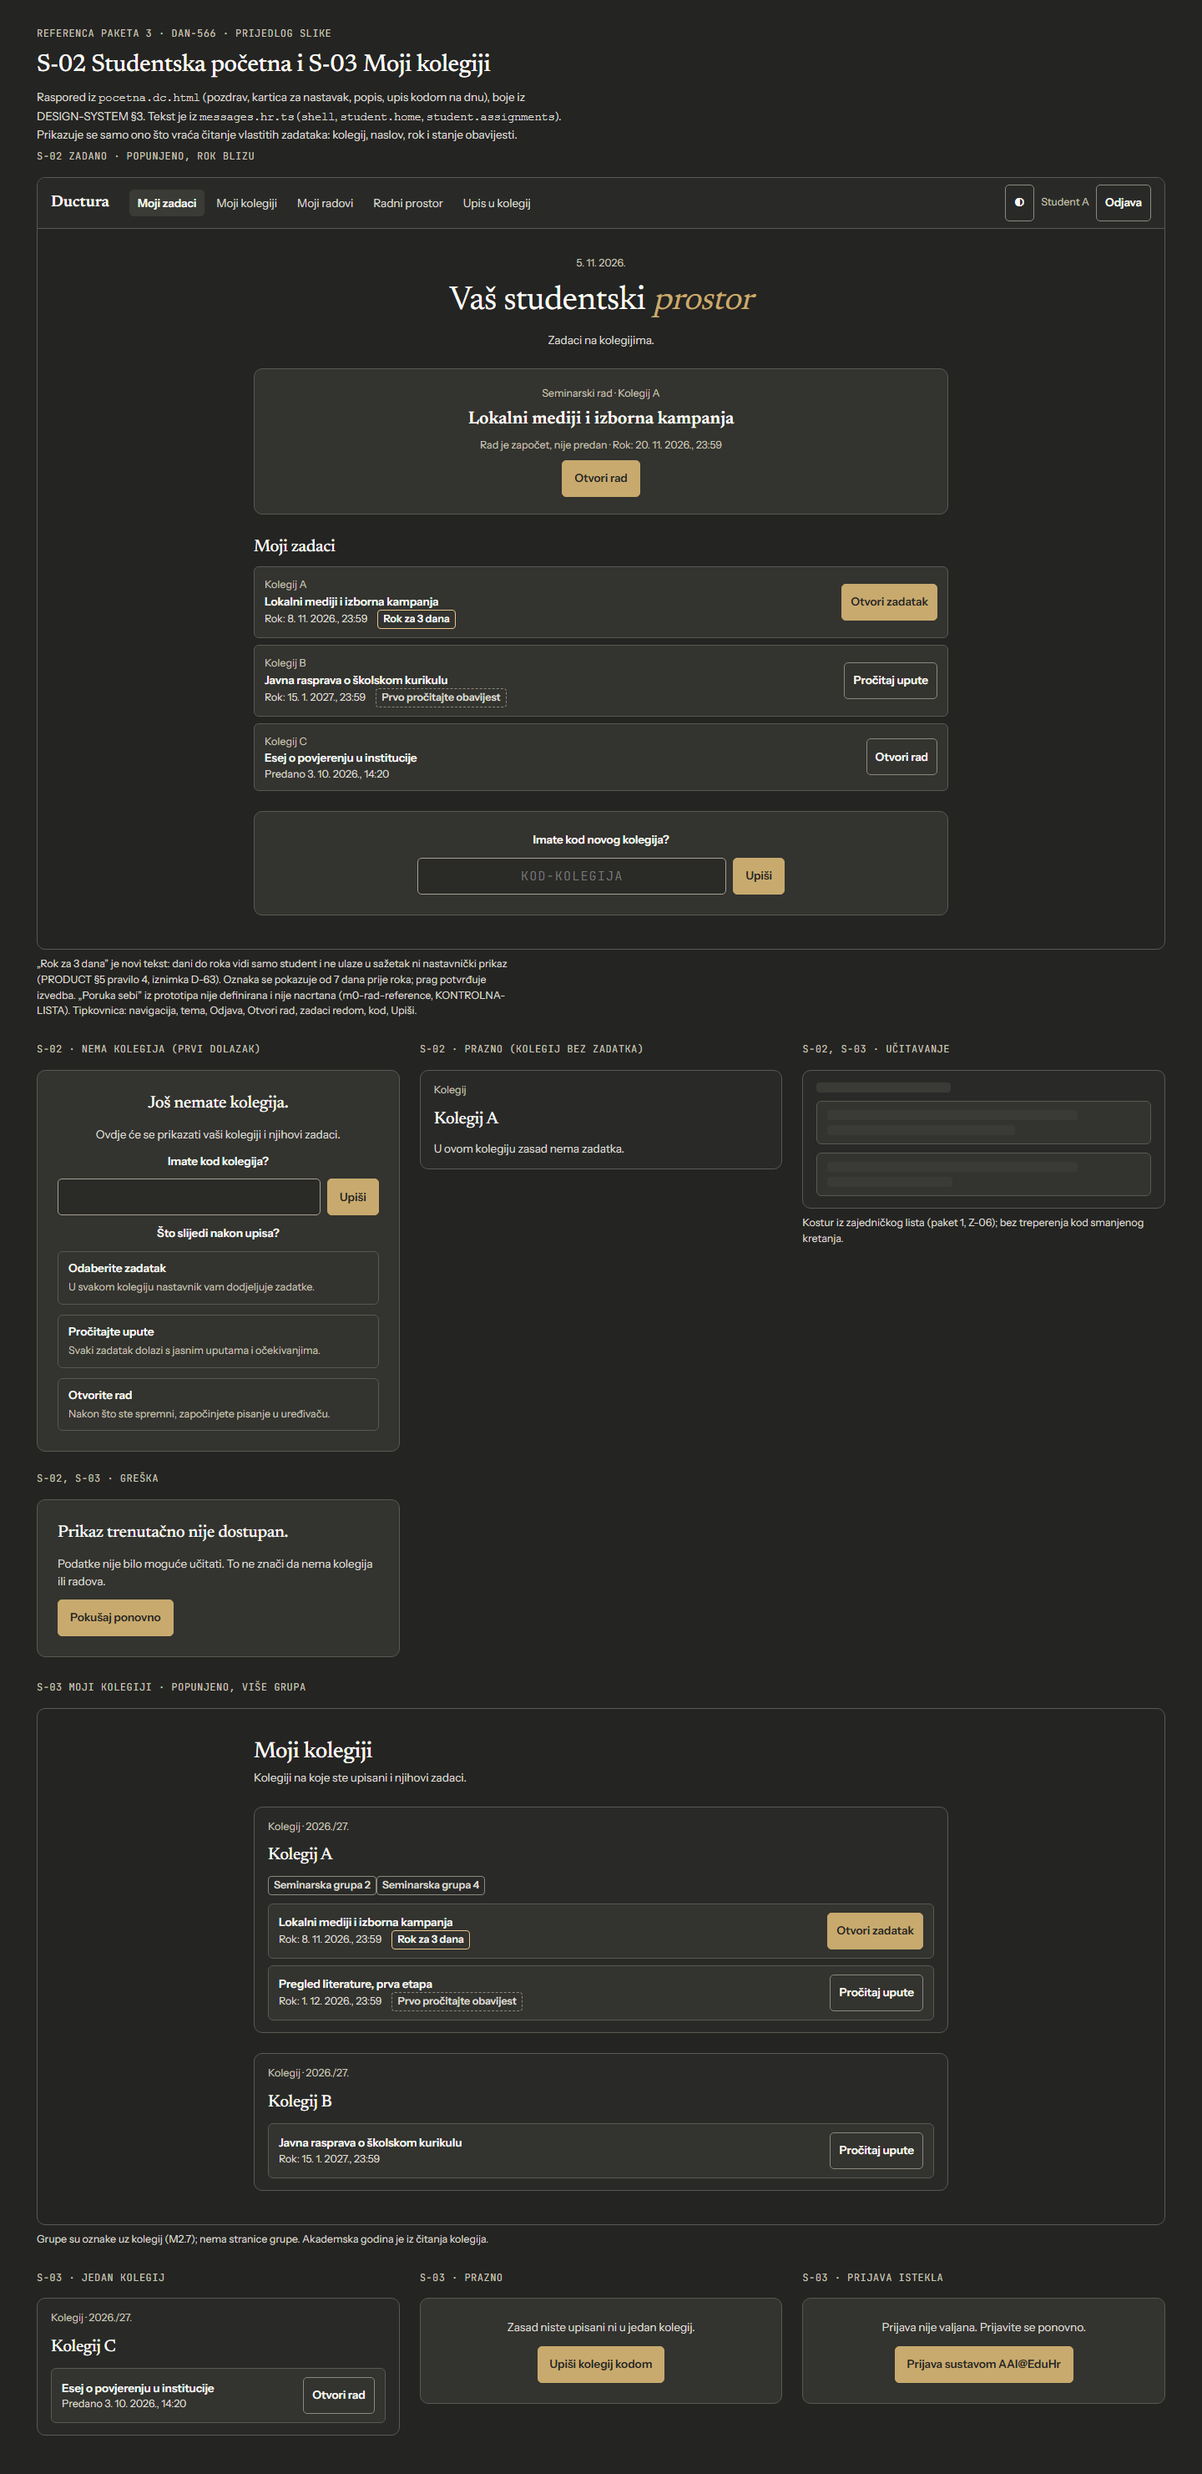
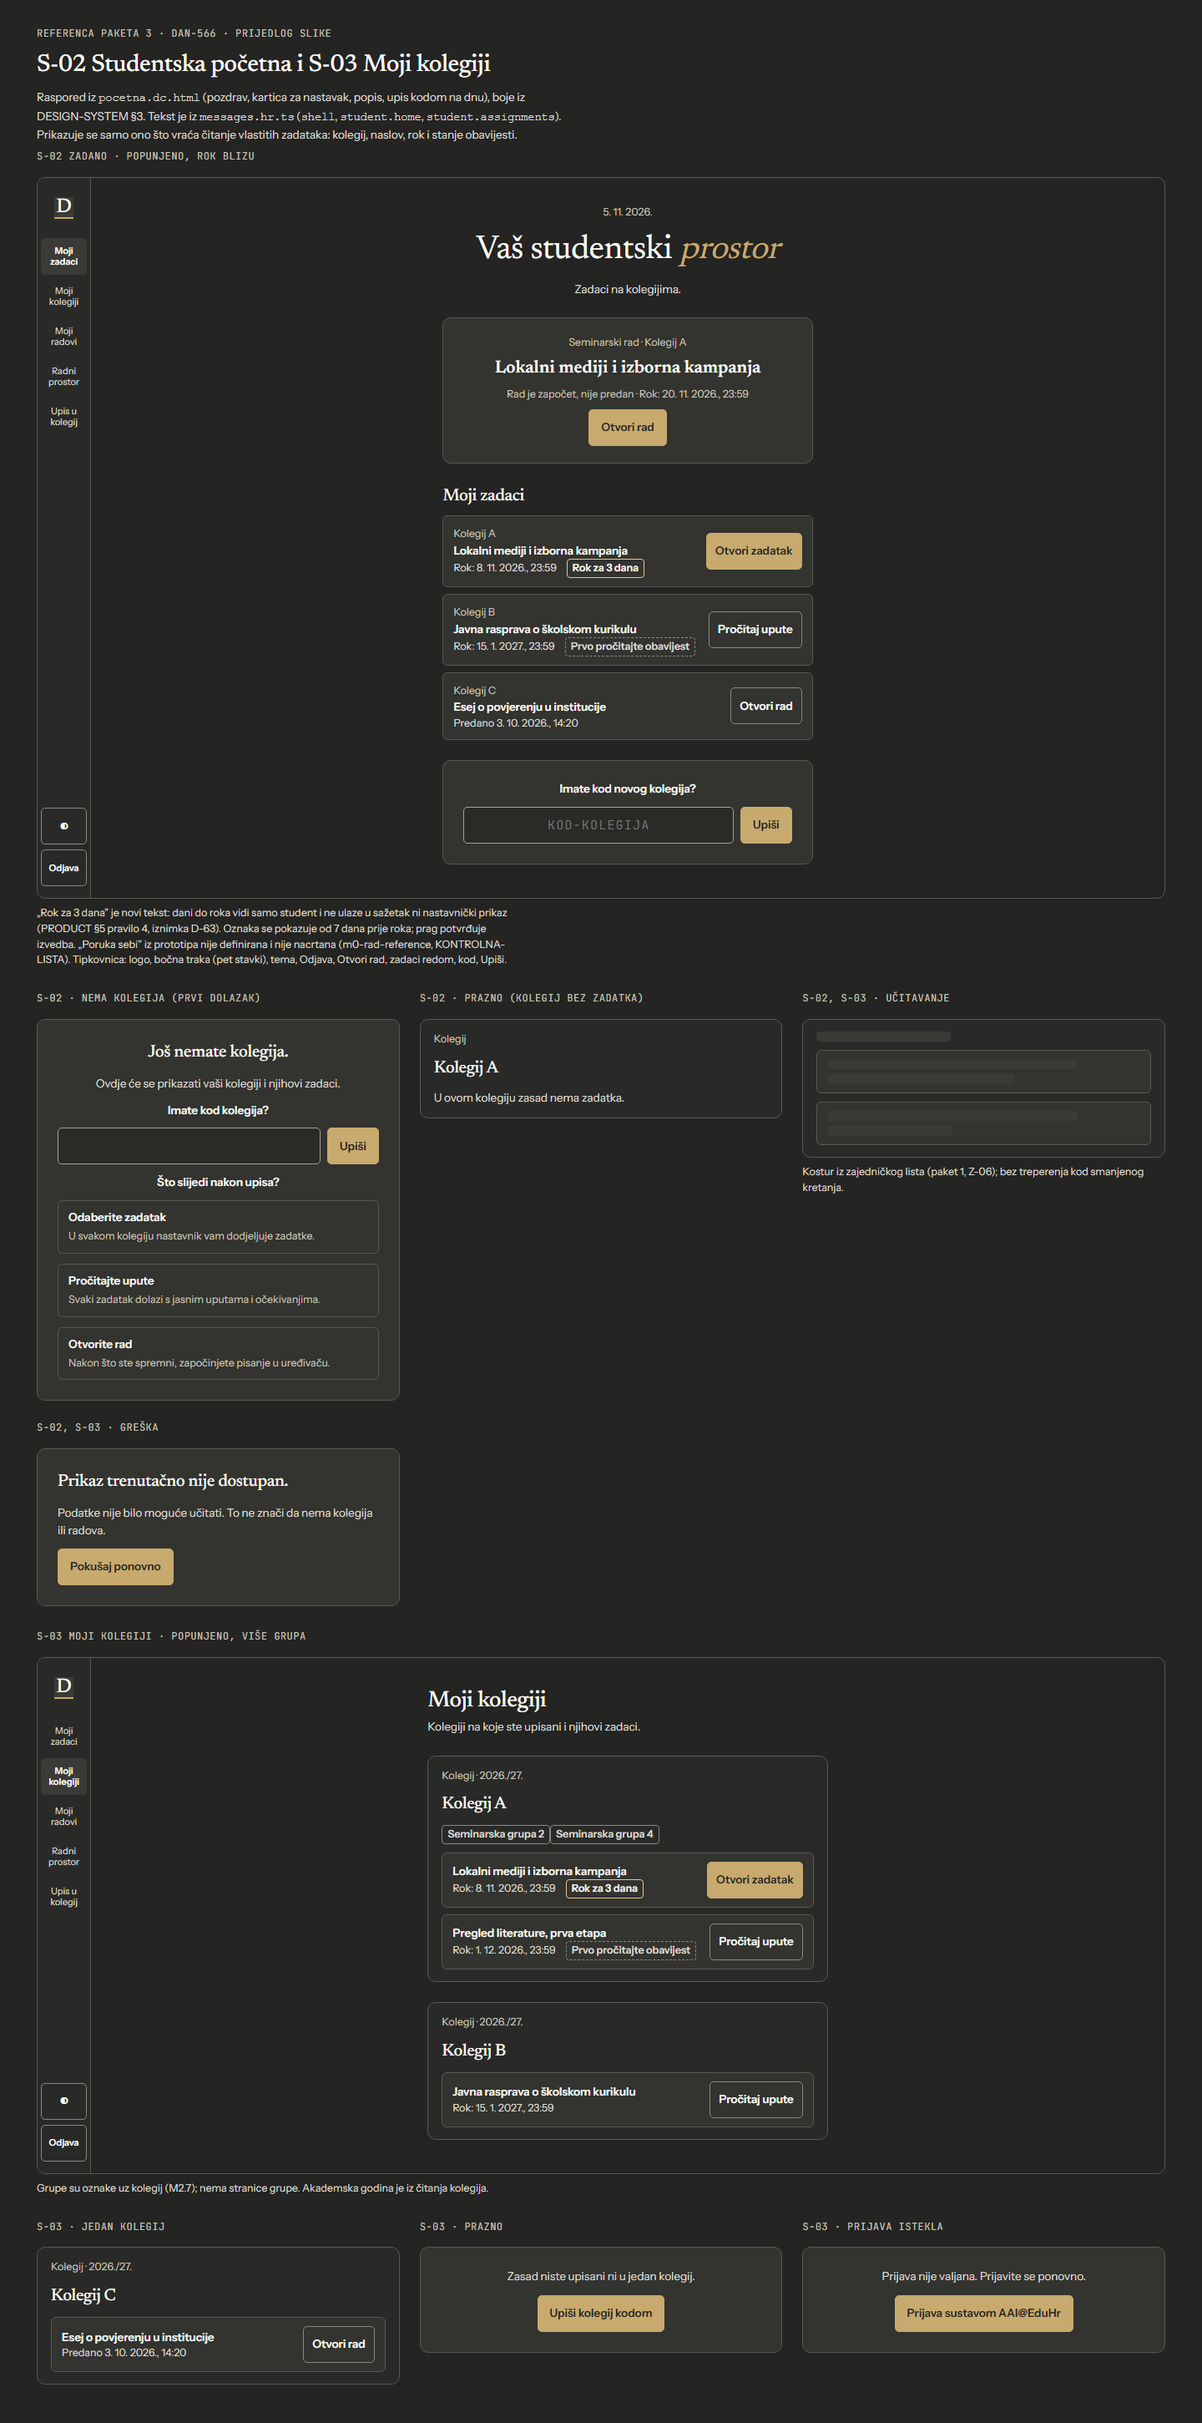
docs: sidebar shell, labelled code field and no-task enrolment state (DAN-566)
Review c.6650499525: S-02 and S-03 use the 64 px sidebar from D-202
point 1 instead of a horizontal bar; every S-04 code field has a label and
aria-describedby to its hint or error; the course-without-task state no
longer announces opening the task notice. Screenshots and SHA256SUMS are
refreshed.

Claude-Session: https://claude.ai/code/session_01N1HowT4JEmWPus261RPqtk

diff --git a/docs/design/ductura/m2-student-reference/upis-obavijest.html b/docs/design/ductura/m2-student-reference/upis-obavijest.html
@@ -17,9 +17,9 @@
     <section class="variant" aria-labelledby="u"><div class="ref-tag" id="u">S-04 zadano · prazno</div>
       <div class="app"><div class="main narrow">
         <section class="card center" aria-labelledby="u1"><h1 id="u1">Upiši kolegij</h1>
-          <label class="field" style="width:100%"><span class="meta">Kod kolegija</span>
-            <span class="code-row"><input class="input code" placeholder="KOD-KOLEGIJA"><button class="btn" type="button">Upiši</button></span></label>
-          <span class="meta">Kod Vam daje nastavnik. Razmaci, crtice i velika ili mala slova nisu bitni.</span></section>
+          <div class="field" style="width:100%"><label class="meta" for="k0">Kod kolegija</label>
+            <span class="code-row"><input class="input code" id="k0" placeholder="KOD-KOLEGIJA" aria-describedby="k0h"><button class="btn" type="button">Upiši</button></span></div>
+          <span class="meta" id="k0h">Kod Vam daje nastavnik. Razmaci, crtice i velika ili mala slova nisu bitni.</span></section>
       </div></div>
       <p class="ref-note">Tipkovnica: polje, Upiši; Enter u polju šalje. Greška se veže uz polje (aria-describedby) i čita se kao alert.</p></section>
     <section class="variant" aria-labelledby="o"><div class="ref-tag" id="o">S-05 zadano · obavijest prije pisanja</div>
@@ -50,24 +50,23 @@
   </div>
   <div class="variants">
     <section class="variant" aria-labelledby="a1"><div class="ref-tag" id="a1">S-04 · upisivanje</div>
-      <div class="card center" aria-busy="true"><div class="code-row"><input class="input code" value="KOLA-7K2M-Q4"><button class="btn" type="button" aria-disabled="true">Upisivanje…</button></div></div></section>
+      <div class="card center" aria-busy="true"><label class="meta" for="k1">Kod kolegija</label><div class="code-row"><input class="input code" id="k1" value="KOLA-7K2M-Q4" readonly><button class="btn" type="button" aria-disabled="true">Upisivanje…</button></div></div></section>
     <section class="variant" aria-labelledby="a2"><div class="ref-tag" id="a2">S-04 · neispravan kod</div>
-      <div class="card center"><div class="code-row"><input class="input code" value="K7" aria-invalid="true"><button class="btn" type="button">Upiši</button></div>
-        <span class="err" role="alert">Kod ima od 8 do 32 slova i brojke. Provjerite ga i upišite ponovno.</span></div></section>
+      <div class="card center"><label class="meta" for="k2">Kod kolegija</label><div class="code-row"><input class="input code" id="k2" value="K7" aria-invalid="true" aria-describedby="k2e"><button class="btn" type="button">Upiši</button></div>
+        <span class="err" id="k2e" role="alert">Kod ima od 8 do 32 slova i brojke. Provjerite ga i upišite ponovno.</span></div></section>
     <section class="variant" aria-labelledby="a3"><div class="ref-tag" id="a3">S-04 · istekao ili nepostojeći kod</div>
-      <div class="card center"><div class="code-row"><input class="input code" value="KOLA-0000-ZZ" aria-invalid="true"><button class="btn" type="button">Upiši</button></div>
-        <span class="err" role="alert">Kod ne postoji ili je istekao. Provjerite ga s nastavnikom.</span></div>
+      <div class="card center"><label class="meta" for="k3">Kod kolegija</label><div class="code-row"><input class="input code" id="k3" value="KOLA-0000-ZZ" aria-invalid="true" aria-describedby="k3e"><button class="btn" type="button">Upiši</button></div>
+        <span class="err" id="k3e" role="alert">Kod ne postoji ili je istekao. Provjerite ga s nastavnikom.</span></div>
       <p class="ref-note">Poslužitelj namjerno ne razlikuje istekao od nepostojećeg koda.</p></section>
     <section class="variant" aria-labelledby="a4"><div class="ref-tag" id="a4">S-04 · već upisan</div>
       <div class="card center" role="status"><p class="note">Već ste upisani u ovaj kolegij.</p><button class="btn" type="button">Otvori zadatak</button></div>
       <p class="ref-note">Novi tekst. Ponovni upis ne stvara drugo članstvo; otvara isti kolegij.</p></section>
     <section class="variant" aria-labelledby="a5"><div class="ref-tag" id="a5">S-04 · greška, bez mreže</div>
-      <div class="card center"><div class="code-row"><input class="input code" value="KOLA-7K2M-Q4"><button class="btn" type="button">Upiši</button></div>
-        <span class="err" role="alert">Nema veze s poslužiteljem. Provjerite mrežu i pokušajte ponovno.</span></div>
+      <div class="card center"><label class="meta" for="k5">Kod kolegija</label><div class="code-row"><input class="input code" id="k5" value="KOLA-7K2M-Q4" aria-describedby="k5e"><button class="btn" type="button">Upiši</button></div>
+        <span class="err" id="k5e" role="alert">Nema veze s poslužiteljem. Provjerite mrežu i pokušajte ponovno.</span></div>
       <p class="ref-note">Ista crta nosi i „Upis trenutačno nije moguć. Pokušajte ponovno.” i „Previše pokušaja. Pokušajte ponovno kasnije.”</p></section>
     <section class="variant" aria-labelledby="a6"><div class="ref-tag" id="a6">S-04 · upisan, kolegij bez zadatka</div>
-      <div class="card center"><p class="ok" role="status">Upisani ste u kolegij. Otvaram obavijest zadatka…</p>
-        <p class="note">Upisani ste u kolegij, ali u njemu zasad nema otvorenog zadatka. Kad ga nastavnik objavi, vratite se na ovu stranicu.</p><a href="#">Upiši drugi kolegij</a></div></section>
+      <div class="card center"><p class="note" role="status">Upisani ste u kolegij, ali u njemu zasad nema otvorenog zadatka. Kad ga nastavnik objavi, vratite se na ovu stranicu.</p><a href="#">Upiši drugi kolegij</a></div></section>
     <section class="variant" aria-labelledby="b1"><div class="ref-tag" id="b1">S-05 · učitavanje</div>
       <div class="card" aria-busy="true"><span class="meta" role="status">Učitavanje zadatka…</span><div class="skel w60"></div><div class="skel w80"></div><div class="skel w40"></div></div></section>
     <section class="variant" aria-labelledby="b2"><div class="ref-tag" id="b2">S-05 · greška</div>

diff --git a/docs/design/ductura/m2-student-reference/pocetna-kolegiji.html b/docs/design/ductura/m2-student-reference/pocetna-kolegiji.html
@@ -14,10 +14,13 @@
 </header>
 <main class="page wide">
   <section class="variant" aria-labelledby="z"><div class="ref-tag" id="z">S-02 zadano · popunjeno, rok blizu</div>
-    <div class="app">
-      <nav class="topbar" aria-label="Glavna navigacija"><span class="brand">Ductura</span>
-        <div class="nav"><a href="#" aria-current="page">Moji zadaci</a><a href="#">Moji kolegiji</a><a href="#">Moji radovi</a><a href="#">Radni prostor</a><a href="#">Upis u kolegij</a></div>
-        <div class="push"><button class="btn small secondary" type="button" aria-label="Promijeni svijetlu ili tamnu temu">◐</button><span class="meta">Student A</span><button class="btn small secondary" type="button">Odjava</button></div></nav>
+    <div class="app shell">
+      <aside class="side">
+        <a class="brand" href="#" aria-label="Ductura, studentska početna"><span class="mark" aria-hidden="true">D</span><span class="word">Ductura</span></a>
+        <button class="btn small secondary menu" type="button" aria-expanded="false">Izbornik</button>
+        <nav aria-label="Glavna navigacija"><a href="#" aria-current="page">Moji zadaci</a><a href="#">Moji kolegiji</a><a href="#">Moji radovi</a><a href="#">Radni prostor</a><a href="#">Upis u kolegij</a></nav>
+        <div class="side-foot"><button class="btn small secondary" type="button" aria-label="Promijeni svijetlu ili tamnu temu">◐</button><button class="btn small secondary" type="button">Odjava</button></div>
+      </aside>
       <div class="main">
         <div class="hero"><span class="eyebrow">5. 11. 2026.</span><h1>Vaš studentski <em>prostor</em></h1><p class="lede">Zadaci na kolegijima.</p></div>
         <section class="continue" aria-labelledby="n1"><span class="eyebrow">Seminarski rad · Kolegij A</span>
@@ -33,7 +36,7 @@
           <div class="code-row"><input class="input code" aria-label="Kod kolegija" placeholder="KOD-KOLEGIJA"><button class="btn" type="button">Upiši</button></div></section>
       </div>
     </div>
-    <p class="ref-note">„Rok za 3 dana” je novi tekst: dani do roka vidi samo student i ne ulaze u sažetak ni nastavnički prikaz (PRODUCT §5 pravilo 4, iznimka D-63). Oznaka se pokazuje od 7 dana prije roka; prag potvrđuje izvedba. „Poruka sebi” iz prototipa nije definirana i nije nacrtana (m0-rad-reference, KONTROLNA-LISTA). Tipkovnica: navigacija, tema, Odjava, Otvori rad, zadaci redom, kod, Upiši.</p>
+    <p class="ref-note">„Rok za 3 dana” je novi tekst: dani do roka vidi samo student i ne ulaze u sažetak ni nastavnički prikaz (PRODUCT §5 pravilo 4, iznimka D-63). Oznaka se pokazuje od 7 dana prije roka; prag potvrđuje izvedba. „Poruka sebi” iz prototipa nije definirana i nije nacrtana (m0-rad-reference, KONTROLNA-LISTA). Tipkovnica: logo, bočna traka (pet stavki), tema, Odjava, Otvori rad, zadaci redom, kod, Upiši.</p>
   </section>
   <div class="variants">
     <section class="variant" aria-labelledby="s1"><div class="ref-tag" id="s1">S-02 · nema kolegija (prvi dolazak)</div>
@@ -50,7 +53,13 @@
       <div class="card" role="alert"><h2>Prikaz trenutačno nije dostupan.</h2><p class="note">Podatke nije bilo moguće učitati. To ne znači da nema kolegija ili radova.</p><button class="btn" type="button">Pokušaj ponovno</button></div></section>
   </div>
   <section class="variant" aria-labelledby="k"><div class="ref-tag" id="k">S-03 Moji kolegiji · popunjeno, više grupa</div>
-    <div class="app"><div class="main">
+    <div class="app shell">
+      <aside class="side">
+        <a class="brand" href="#" aria-label="Ductura, studentska početna"><span class="mark" aria-hidden="true">D</span><span class="word">Ductura</span></a>
+        <button class="btn small secondary menu" type="button" aria-expanded="false">Izbornik</button>
+        <nav aria-label="Glavna navigacija"><a href="#">Moji zadaci</a><a href="#" aria-current="page">Moji kolegiji</a><a href="#">Moji radovi</a><a href="#">Radni prostor</a><a href="#">Upis u kolegij</a></nav>
+        <div class="side-foot"><button class="btn small secondary" type="button" aria-label="Promijeni svijetlu ili tamnu temu">◐</button><button class="btn small secondary" type="button">Odjava</button></div>
+      </aside><div class="main">
       <div><h1>Moji kolegiji</h1><p class="lede">Kolegiji na koje ste upisani i njihovi zadaci.</p></div>
       <section class="course" aria-labelledby="c1"><span class="eyebrow">Kolegij · 2026./27.</span><h2 id="c1">Kolegij A</h2>
         <div class="when"><span class="tag">Seminarska grupa 2</span><span class="tag">Seminarska grupa 4</span></div>

diff --git a/docs/design/ductura/m2-student-reference/reference.css b/docs/design/ductura/m2-student-reference/reference.css
@@ -15,12 +15,27 @@
 
 /* Ljuska Z-01, studentska navigacija */
 .app { border: 1px solid var(--rule-2); border-radius: 10px; overflow: clip; background: var(--ground); }
-.topbar { display: flex; gap: 8px 16px; align-items: center; flex-wrap: wrap; padding: 8px 16px; background: var(--chrome); border-bottom: 1px solid var(--rule-2); }
 .brand { font: 600 19px var(--ff-display); margin-right: 8px; }
-.nav { display: flex; gap: 4px; flex-wrap: wrap; }
-.nav a { color: var(--ink-2); text-decoration: none; padding: 6px 10px; border-radius: 5px; min-height: 32px; display: inline-flex; align-items: center; }
-.nav a[aria-current="page"] { background: var(--well); color: var(--ink); font-weight: 600; }
-.push { margin-left: auto; display: flex; gap: 8px; align-items: center; flex-wrap: wrap; }
+/* Ljuska izvan uređivača: uska bočna traka od 64 px (D-202 t. 1), isti raspored
+   kao m2-reference; ikone iz paketa se ne koriste (D-203 t. 8), stavke nose tekst. */
+.shell { display: grid; grid-template-columns: 64px minmax(0, 1fr); }
+.side { background: var(--chrome); border-right: 1px solid var(--rule-2); padding: 14px 4px; display: flex; flex-direction: column; gap: 14px; }
+.side .brand { display: grid; place-items: center; min-height: 44px; margin: 0; color: var(--ink); text-decoration: none; font: 500 24px/1 var(--ff-display); }
+.side .brand .word { display: none; }
+.side nav { display: grid; gap: 4px; }
+.side nav a { display: grid; place-items: center; text-align: center; min-height: 44px; padding: 6px 2px; border-radius: 5px; color: var(--ink-2); text-decoration: none; font-size: 11px; line-height: 1.2; }
+.side nav a[aria-current="page"] { background: var(--well); color: var(--ink); font-weight: 600; }
+.side-foot { margin-top: auto; display: grid; gap: 6px; }
+.side-foot .btn { width: 100%; padding: 0 2px; font-size: 11px; min-height: 44px; }
+.menu { display: none; }
+@media (max-width: 800px) {
+  .shell { grid-template-columns: minmax(0, 1fr); }
+  .side { flex-direction: row; justify-content: space-between; align-items: center; border-right: 0; border-bottom: 1px solid var(--rule-2); padding: 8px 16px; }
+  .side nav, .side-foot { display: none; }
+  .side .brand .mark { display: none; }
+  .side .brand .word { display: inline; font-size: 19px; }
+  .menu { display: inline-flex; align-items: center; min-height: 44px; }
+}
 .main { max-width: 880px; margin: 0 auto; padding: 32px 24px 40px; display: grid; gap: 24px; }
 .main.narrow { max-width: 640px; text-align: center; justify-items: center; }
 .lede { color: var(--ink-2); }
@@ -67,7 +82,6 @@
 
 @media (max-width: 1050px) { .variants.two, .steps, .notice-cols { grid-template-columns: 1fr; } .login { grid-template-columns: 1fr; gap: 32px; } }
 @media (max-width: 640px) {
-  .nav a { min-height: 44px; }
   .main { padding: 20px 16px 32px; }
   .hero h1 { font-size: 30px; }
   .login { padding: 16px; } .login h1 { font-size: 40px; } .login-card { padding: 20px; }

diff --git a/docs/design/ductura/m2-student-reference/README.md b/docs/design/ductura/m2-student-reference/README.md
@@ -35,6 +35,8 @@ Stanje „mobitel” iz §5 su snimke na 400 px. Svaka stranica ima snimku na 14
 - Istekao i nepostojeći kod imaju isti tekst (`student.enroll.errors.refused`).
 - Dani do roka („Rok za 3 dana”) vidi samo student i ne ulaze u sažetak ni nastavnički prikaz (PRODUCT §5 pravilo 4, iznimka D-63).
 - Obavijest S-05 prikazuje sve stavke iz kataloga doslovno, uključujući prikaz uživo i reprodukciju (D-142, D-143), radne zapise mentora (D-130) i rečenicu da Ductura ne procjenjuje autorstvo. Potvrda nije privola i ništa se ne šalje prije potvrde. Nova verzija obavijesti traži novu potvrdu.
+- Ljuska S-02 i S-03 je uska bočna traka od 64 px (D-202 t. 1), isti raspored kao `m2-reference`; logo vodi na studentsku početnu (D-202 t. 2). Ikone iz paketa nisu korištene (D-203 t. 8), pa stavke nose tekst iz kataloga. Ispod 800 px traka postaje gornja crta s gumbom „Izbornik”.
+- Polje koda u svim stanjima S-04 ima naziv „Kod kolegija” (`label for`); poruka greške i uputa vezane su uz polje preko `aria-describedby`. Kolegij bez zadatka potvrđuje samo upis i ne najavljuje obavijest.
 - Podaci su izmišljeni: Student A, Kolegij A do C, izmišljeni naslovi zadataka i kodovi.
 
 ## Novi tekst koji nije u katalogu
@@ -46,6 +48,7 @@ Ovi tekstovi su prijedlog i ulaze u `messages.hr.ts` tek s izvedbom, uz provjeru
 - S-02, S-03: „Rok za 3 dana” (prag od 7 dana potvrđuje izvedba).
 - S-03: oznake „Seminarska grupa 2” i akademska godina uz kolegij (M2.7).
 - S-04: „Već ste upisani u ovaj kolegij.”
+- S-02, S-03: „Izbornik” (gumb kojim se bočna traka ispod 800 px otvara kao ladica, isti kao u `m2-reference`).
 - S-05: „Nastavnik (mentor) zadatka moći će usporediti dvije poslane verzije rada, poslane na pregled ili predane. Usporedba pokazuje samo razliku između njih. Istu usporedbu svog rada vidjet ćete i Vi.” (PRODUCT §5 pravilo 7, D-202; katalog ima samo `teacherExtended` za prošireni profil).
 - S-05: „Pravilo je postavio nastavnik kolegija (Nastavnik A). Razlikuje se od pravila fakulteta.” i rasklopivo „Pravilo fakulteta (FPZG čl. 8)” (D-175); kad se pravila ne razlikuju, ostaje samo prva rečenica.
 
